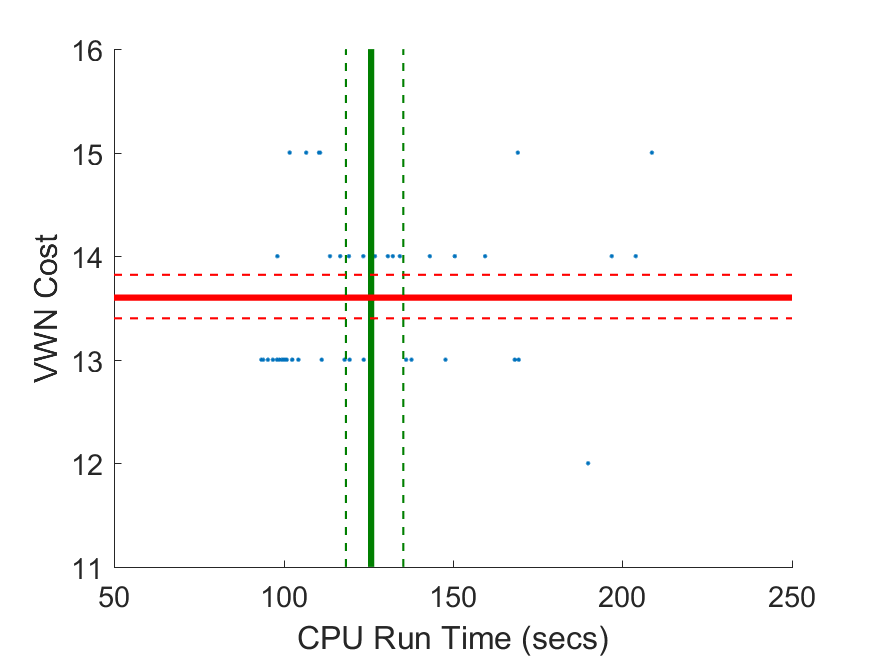
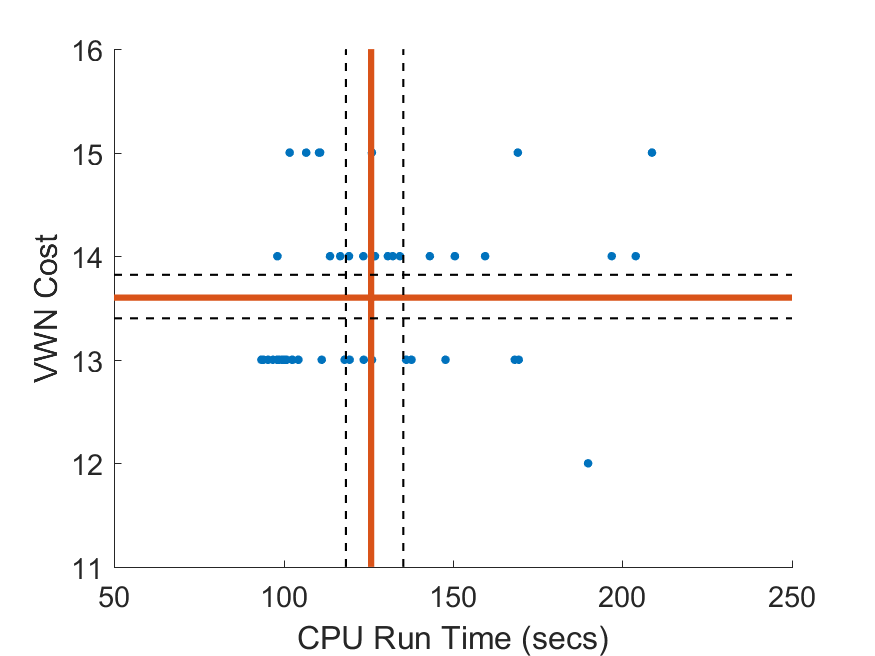
Additions to 4.1.2 Network Cost analysis
New figures and analysis of GA and sDEP network costs.  Need to update comparison between the two.

diff --git a/KT_Thesis.tex b/KT_Thesis.tex
@@ -3,7 +3,7 @@
 %   TITLE: Approaches to Joint Base Station Selection and Adaptive Slicing in Virtualized Wireless Networks (Working Title)
 %  AUTHOR: Kory Teague
 % SAVE AS: KT_Thesis.tex
-% REVISED: August 27, 2018
+% REVISED: August 28, 2018
 
 %\documentclass[12pt,dvips]{report}
 %\documentclass[12pt]{report}
@@ -130,10 +130,16 @@
   \fi
   \endgroup
 }
-% End of \widebar implementation
+% End of \widebar setup
 
+% widebar command implementation
 \newcommand*\mean[1]{\widebar{#1}}
+
+% Indicator function command implementation
 \newcommand{\ind}[1]{\mathbbm{1}_{\left\{ #1 \right\}}}
+
+% exponent number (e-notation) command implementation
+\newcommand{\expnumber}[2]{{#1}\mathrm{e}{#2}}
 
 %\DeclareMathOperator*{\argmin}{arg\,min}
 \DeclareMathOperator*{\argmin}{minimize}
@@ -1047,12 +1053,12 @@ In this subsection I will present the results of these preliminary simulations. 
 
 \subsubsection{Run Time}
 
-\Cref{fig:Prelim_GARunTime} shows the run time trend of the GA approach as a histogram PDF.  Across 50 independent simulations, the GA approach converges to a solution in 94 to 209 seconds, averaging 125.9 seconds (CPU time) with a 95\% confidence interval of (118.4, 135.4).  These results are heavily weighted towards the low end, with more than 20\% of simulations terminating in under 100 seconds.
+\Cref{fig:Prelim_GARunTime} shows the run time trend of the GA approach as a histogram PMF.  Across 50 independent simulations, the GA approach converges to a solution in 94 to 209 seconds, averaging 125.9 seconds (CPU time) with a 95\% confidence interval of (118.4, 135.4).  These results are heavily weighted towards the low end, with more than 20\% of simulations terminating in under 100 seconds.
 
 \begin{figure}[ht]
 	\centering
 	\includegraphics[height=0.45\textheight]{Figures/Prelim_GARuntime50}
-	\caption[GA Approach CPU run time PDF over 50 runs of the preliminary simulations]{GA Approach CPU run time PDF over 50 runs; mean (125.9 secs) shown in red, 95\% confidence interval (118.4, 135.4) shown in dashed black}
+	\caption[GA Approach CPU run time PDF over 50 runs of the preliminary simulations]{GA Approach CPU run time PDF over 50 runs.  Mean (125.9 secs) shown in orange, 95\% confidence interval (118.4, 135.4) shown in dashed black.}
 	\label{fig:Prelim_GARunTime}
 \end{figure}
 
@@ -1078,7 +1084,7 @@ CPLEX is capable of parallelizing across the PC's 8 CPU cores, allowing for the 
 
 \subsubsection{Network Cost}
 
-The spike of CPU run times corresponds to the regions of $\alpha$ that the sDEP solution is in transition, where the optimal number of resources selected is more difficult for the CPLEX branch-and-cut algorithm to determine.  This can be seen in \Cref{fig:Prelim_sDEPCompCostRunTime}, where the run time spike of $\alpha = \left[ 25,\, 45 \right]$ surrounds the transition between the selection of 9 BSs and 10 BSs.  CPLEX converges to a solution ($\alpha < 25$, 9 BSs; $\alpha > 45$, 10 BSs) within around 1000 seconds CPU time.  However, within this critical region, the CPLEX branch-and-cut algorithm is unable to cut many considered solutions, increasing run time up to the 6000 seconds CPU time.  This trend continues outside of the shown values of $\alpha$; at higher values, such as $\alpha \approx 10^6$, there is another spike where CPLEX is unable to complete within 15 minutes as the solution transitions between 12 and 13 selected BSs.
+The spike of CPU run times corresponds to the regions of $\alpha$ that the sDEP solution is in transition, where the optimal number of resources selected is more difficult for the CPLEX branch-and-cut algorithm to determine.  This can be seen in \Cref{fig:Prelim_sDEPCompCostRunTime}, where the run time spike of $\alpha = \left[ 25,\, 45 \right]$ surrounds the transition between the selection of 9 BSs and 10 BSs.  CPLEX converges to a solution ($\alpha < 25$, 9 BSs; $\alpha > 45$, 10 BSs) within approximately 1000 seconds.  However, within this critical region, the CPLEX branch-and-cut algorithm is unable to cut many close-to-feasible solutions, increasing run time up to 6000 seconds.
 
 \begin{figure}[ht]
 	\centering
@@ -1087,15 +1093,41 @@ The spike of CPU run times corresponds to the regions of $\alpha$ that the sDEP 
 	\label{fig:Prelim_sDEPCompCostRunTime}
 \end{figure}
 
-% Then lead into GA Cost for the values tested (Histogram?  Cost vs runtime?).  Talk about the cost characteristics.  Imply that modifying the magnitude of $\lambda$ would be similar to affecting $\alpha$ in the sDEP, and allow the GA to allocate less and more resources fo the VWN
-
-% Directly compare the sDEP and the GA costs
-
-The trade off for the GA's improved run time is that the solution provided is less optimal than the sDEP, as indicated by an increased cost for the VNB to build the VWN.  \Cref{fig:Prelim_VWNCompCost} compares the increasing cost of the sDEP as $\alpha$ increases with the cost of the various GA solutions.  On average, the GA incurs a 36\% increased cost for the VWN, a significant amount of incurred error.
+This trend continues for higher values of $\alpha$.  As shown in \Cref{fig:Prelim_sDEPCompCostRunTimeExpanded}, the region surrounding the transition between selecting 11 and 12 BSs ($\alpha \approx \left[ \expnumber{2.2}{2},\, \expnumber{4.6}{3} \right]$) has a wider spike before settling down to easier solutions, including the trivial, all-BS case for $\alpha \geq \expnumber{1.0}{6}$.  It should be noted that for $\alpha = \left\{ \expnumber{4.6}{2},\, \expnumber{1.0}{3} \right\}$ the sDEP model did not complete within the 15 minute (wall clock) time limit, and the solution presented for those values is not necessarily the most optimal solution for the problem, only the most optimal solution found.
 
 \begin{figure}[ht]
 	\centering
-	\includegraphics[height=0.45\textheight]{Figures/Prelim_ComparisonCost_VOSGA25ScenarioSet}
+	\includegraphics[height=0.45\textheight]{Figures/Prelim_O25sDEPComparisonCostRunTimeExpandedAlpha}
+	\caption[Expanded preliminary simulation comparison of sDEP run time and VWN cost]{Comparison of sDEP CPU run time and VWN construction cost for further values of $\alpha$.}
+	\label{fig:Prelim_sDEPCompCostRunTimeExpanded}
+\end{figure}
+
+The GA approach settles on solutions with four different values of network cost.  \Cref{fig:Prelim_GACostsPMF} visualizes these four types of solutions as a histogram PMF of the 50 GA simulations.  Half of the simulations ended with a selection of 13 BSs.  However, almost half ended with 14 or 15 selected BSs as the optimal selection; this implies that the GA is terminating too early for the solutions to settle into the better, more common 13-BS solution.  This is further implied by the single 12-BS solution, which, like all of the other solutions, is neither overcoverage nor overcapacity.  The 12-BS solution is completely feasible and stronger than all 49 other solutions.
+
+\begin{figure}[ht]
+	\centering
+	\includegraphics[height=0.45\textheight]{Figures/Prelim_GACostsPMF}
+	\caption[GA approach VWN cost trend for preliminary simulations]{PMF of constructed VWN costs of the GA approach.  Mean (13.6 BSs) shown in orange, 95\% confidence interval (13.4, 13.82) shown in dashed black.}
+	\label{fig:Prelim_GACostsPMF}
+\end{figure}
+
+\Cref{fig:Prelim_GARunTimesVCosts} plots the costs of the various GA solutions against their CPU run times.  There is no apparent trend in the plot; a linear line of best fit would be sloping upwards, implying that more time would allocate more resources.  However, the 12-BS solution (189.9 seconds) is far above the mean run time (125.9 seconds), while most 13-BS solutions are below.  The GA discovers an easy, weak solution of 13 BSs fairly quickly and halts before it has a reasonable chance to discover the stronger but more difficult-to-find 12-BS solution.  The GA run time will be extended in the proper test cases (\Cref{sec:caseI,sec:caseII}) to avoid premature halting.
+
+\begin{figure}[ht]
+	\centering
+	\includegraphics[height=0.45\textheight]{Figures/Prelim_GARunTimesVCosts_cis}
+	\caption[GA approach VWN cost and run time trend for preliminary simulations]{Various GA simulation solution costs and associate CPU run times.  Means shown in orange, 95\% confidence intervals shown in dashed black.}
+	\label{fig:Prelim_GARunTimesVCosts}
+\end{figure}
+
+% Directly compare the sDEP and the GA costs
+The trade off for the GA's improved run time is that the solution provided is expected to be less optimal than the sDEP, as indicated by an increased cost for the VWN and/or a decreased demand satisfaction compared to the sDEP.  \Cref{fig:Prelim_VWNCompCost} compares the cost of the sDEP as $\alpha$ increases with the cost of the various GA solutions.  
+
+On average, the GA incurs a 36\% increased cost for the VWN, a significant amount of incurred error.
+
+\begin{figure}[ht]
+	\centering
+	\includegraphics[height=0.45\textheight]{Figures/Prelim_O25sDEPGACostComparison_Expanded}
 	\caption[Preliminary simulation constructed VWN costs]{VWN Costs; 95\% confidence interval shown in black}
 	\label{fig:Prelim_VWNCompCost}
 \end{figure}
@@ -1135,13 +1167,29 @@ In this section I present the first test case as an extension of last section's 
 
 \subsection{Results} \label{subsec:caseI_results}
 
-\section{Case II: Single SP with Heterogeneous Resources} \label{caseII}
+\subsubsection{Run Time}
+
+\subsubsection{Network Cost}
+
+\subsubsection{Demand Satisfaction}
+
+\subsubsection{Takeaway Conclusions}
+
+\section{Case II: Single SP with Heterogeneous Resources} \label{sec:caseII}
 
 In this section I present the second test
 
 \subsection{Setup} \label{subsec:caseII_setup}
 
 \subsection{Results} \label{subsec:caseII_results}
+
+\subsubsection{Run Time}
+
+\subsubsection{Network Cost}
+
+\subsubsection{Demand Satisfaction}
+
+\subsubsection{Takeaway Conclusions}
 
 \iffalse
 In \Cref{fig:AlgSpeedupRunTime} is a comparison of the approach run times.  It shows the run times of both the DEP and genetic algorithm in terms of the speedup ratio and in absolute number of seconds.  As the number of scenarios sampled increases, the CPU run time of the sampled DEP increases exponentionally, and fails to converge to a final solution with 50 scenarios within the time limit of 15 minutes.  Except for the 5 scenario case, the genetic algorithm converges to a solution in less CPU time (125.8 seconds) than the sampled DEP.  When 20 scenarios are sampled, the DEP takes approximately 440\% of the time as the genetic algorithm; at 45 scenarios, this has increased to 4,630\%.  CPLEX is capable of parallelizing across the 8 CPU cores, allowing for the wall clock run time to be, at minimum, one-eighth the CPU run time.  In terms of the adjusted approximate ``wall clock" time, the genetic algorithm converges in less wall clock time than the sampled DEP for 25 or more sampled scenarios.
